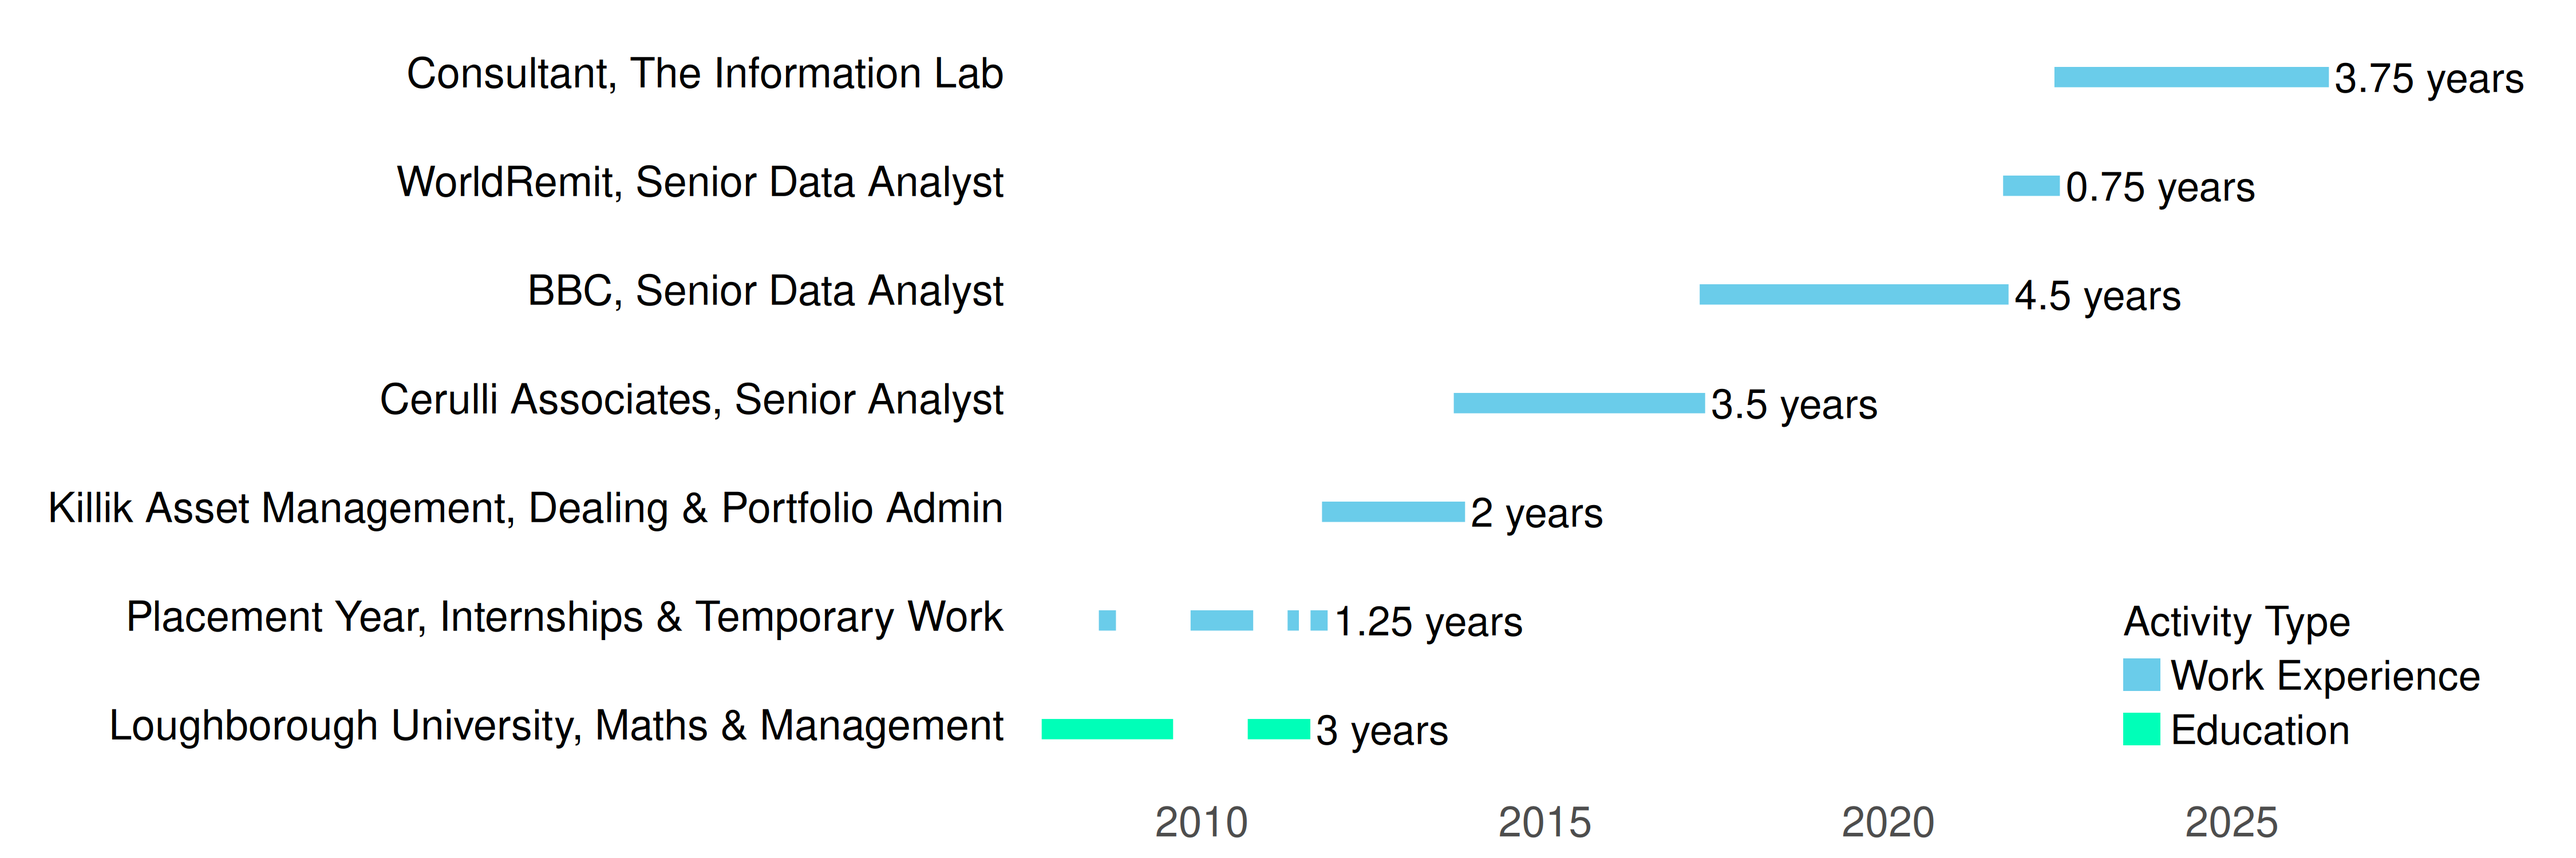
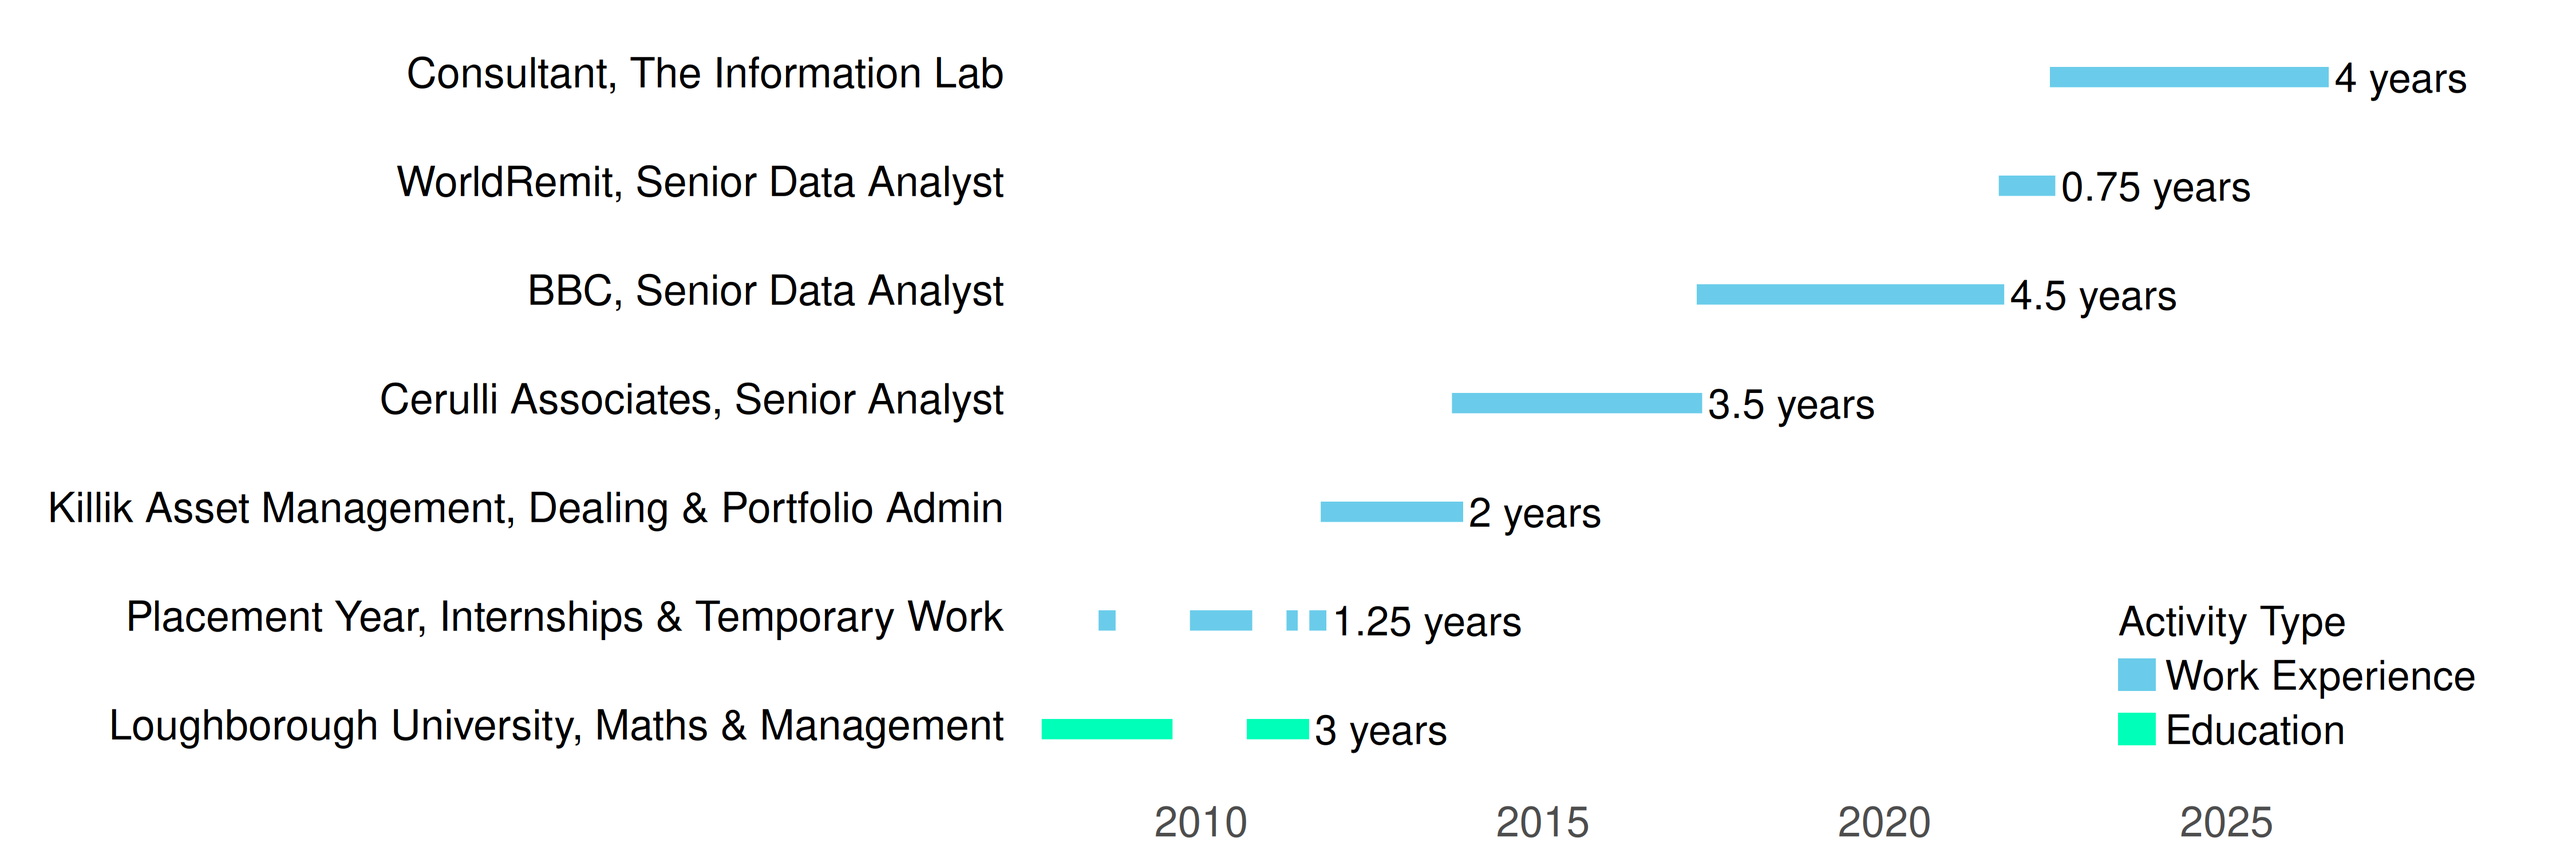
Update career timeline and README values

diff --git a/README.md b/README.md
@@ -101,7 +101,7 @@ Here are some of my materials that I compiled for internal and external training
 - [The Summer of SQL](https://github.com/wjsutton/the_summer_of_sql)
 - [Python Charmers](https://github.com/wjsutton/python_charmers) 
 
-## Career Timeline, Sep 2007 - May 2026
+## Career Timeline, Sep 2007 - Jun 2026
 
 13 Years in Data & Analytics
 
@@ -109,7 +109,7 @@ Here are some of my materials that I compiled for internal and external training
   <img src="https://github.com/wjsutton/wjsutton/blob/master/cards/work_timeline.png?raw=true">
 </a>
 
-Sectors: 7 Years in Finance, 4.5 Years in Media & Broadcast, 3.75 Years in Consulting | Full details available on [LinkedIn](https://www.linkedin.com/in/will-sutton-14711627/)
+Sectors: 7 Years in Finance, 4.5 Years in Media & Broadcast, 4 Years in Consulting | Full details available on [LinkedIn](https://www.linkedin.com/in/will-sutton-14711627/)
 
 ### Certifications
 
